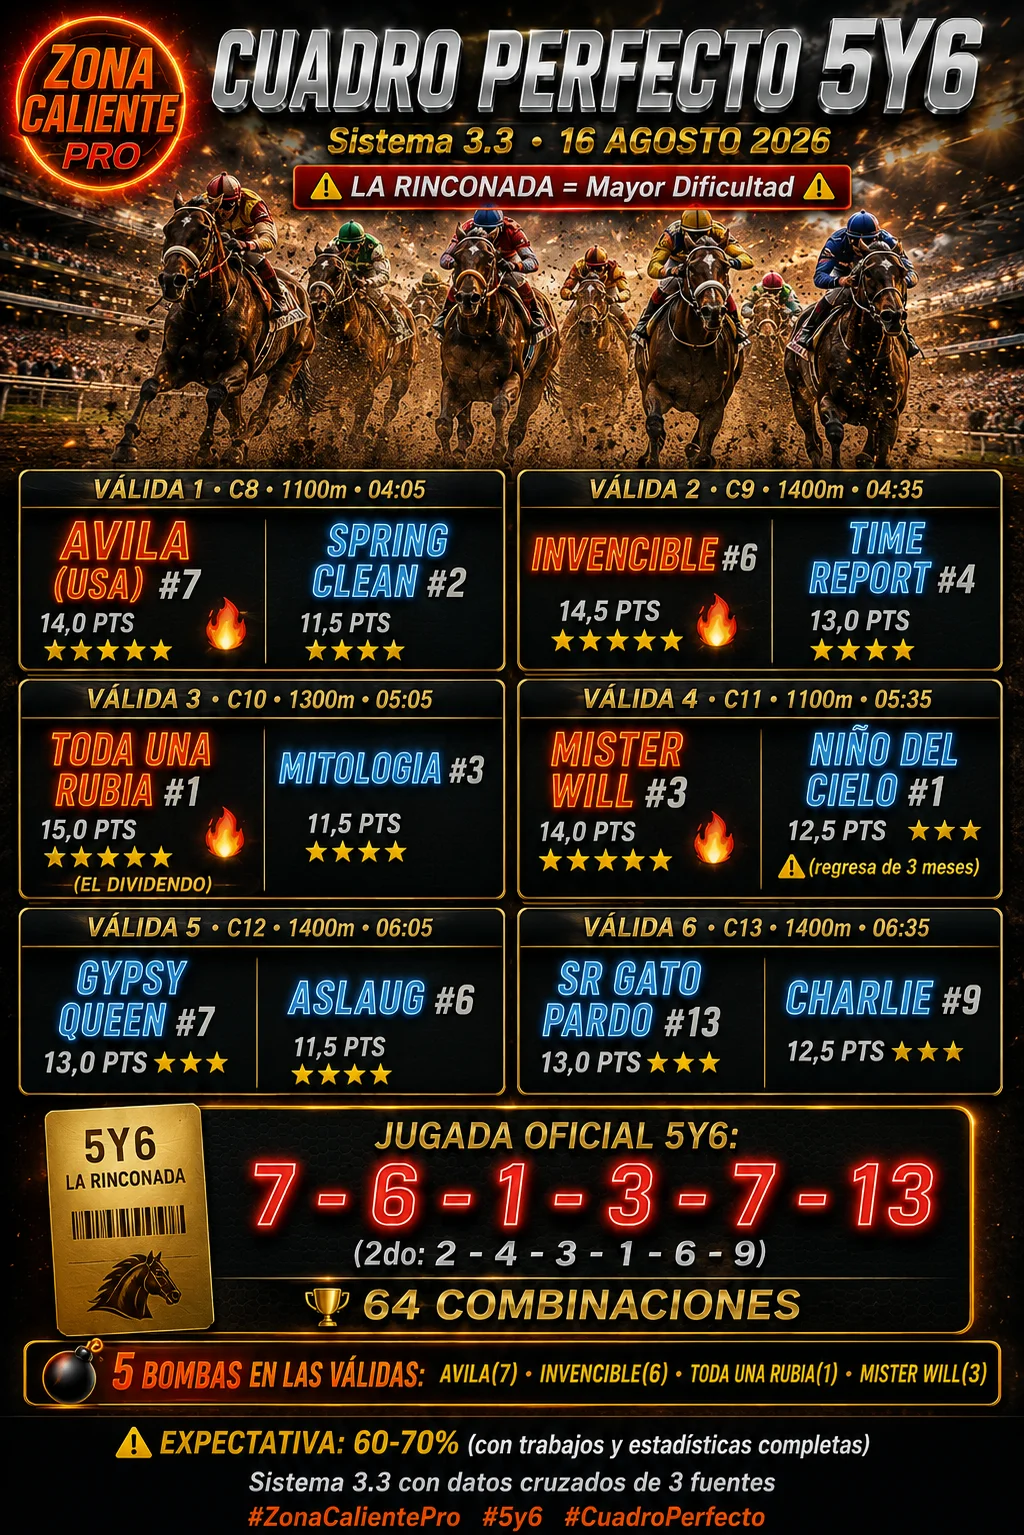
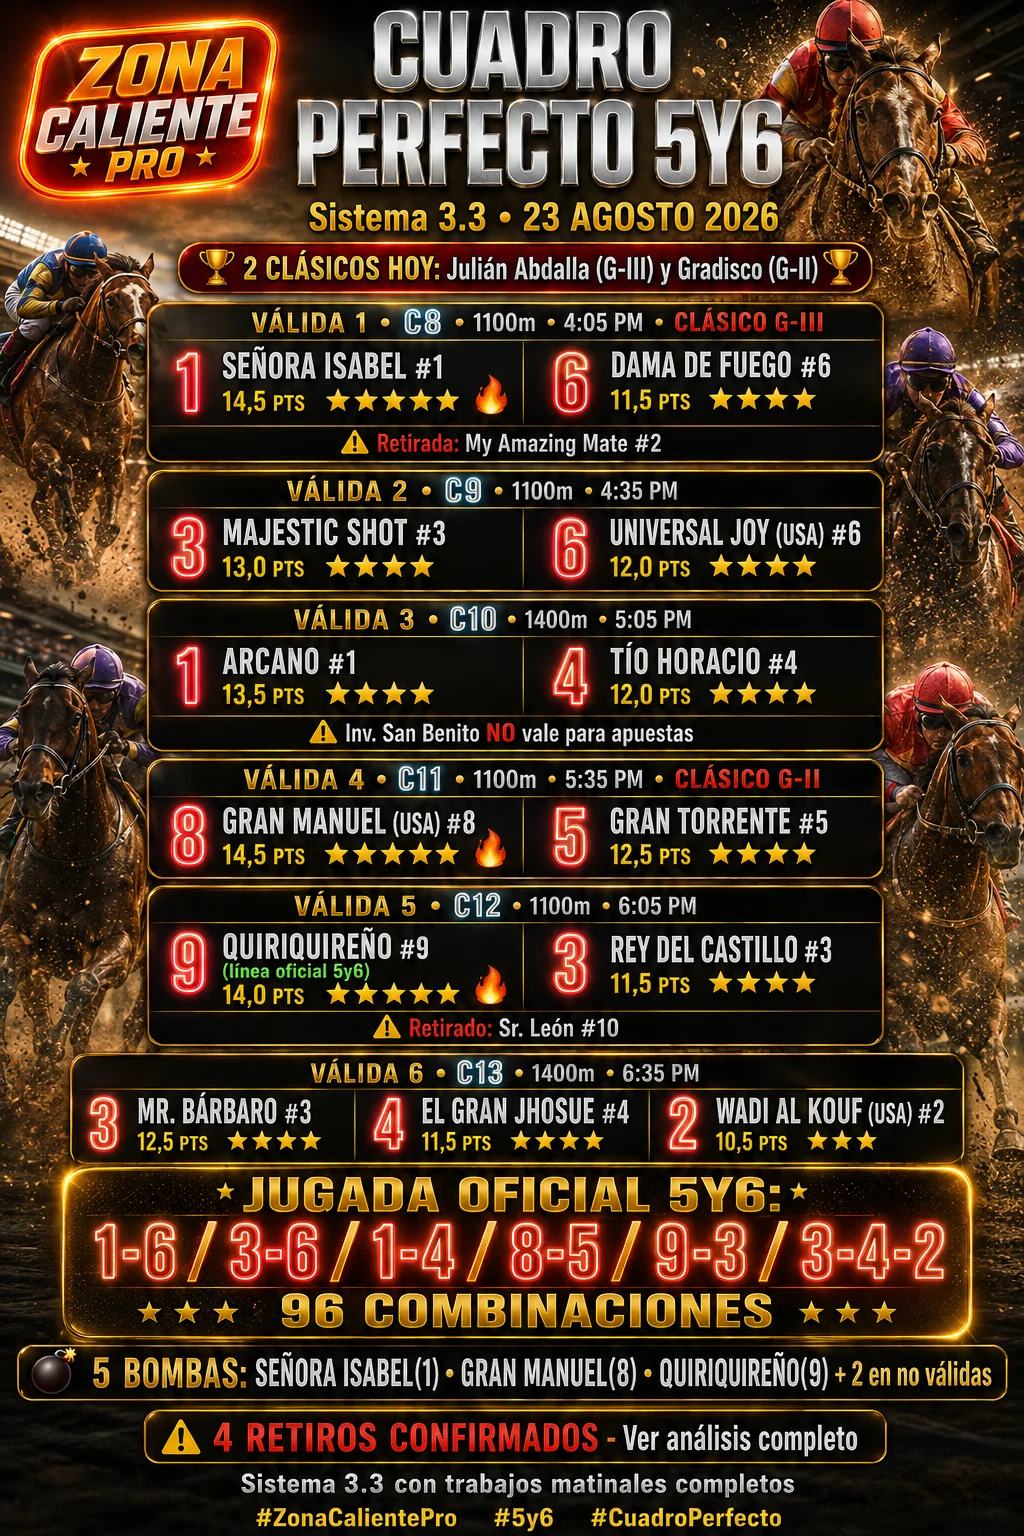
La Rinconada 23/08/2026: análisis Sistema 3.3, Reunión 33 (Julián Abdalla G-III y Gradisco G-II)
Sin carrera en Valencia esta semana -- esa sección queda intacta.
2 fuentes (El Fuetazo + Revista Digital Chicho Báez), trabajos y
estadística completos. 5 bombas identificadas, 4 retiros del INH
excluidos del análisis.

diff --git a/index.html b/index.html
@@ -390,7 +390,7 @@
     </nav>
 
     <div class="emergency-alert-banner" style="background: rgba(34, 158, 217, 0.2); border-color: #229ED9; color: #93c5fd;">
-        🔥 <strong>¡ÚLTIMA HORA!</strong> CARRERAS EN LA RINCONADA LA PRÓXIMA SEMANA. Mantente atento a nuestros pronósticos con el Sistema 3.3.
+        🔥 <strong>¡YA DISPONIBLE!</strong> Análisis completo La Rinconada 23/AGO — Sistema 3.3, Reunión N° 33. No hay carrera en Valencia esta semana.
     </div>
 
     <header class="hero">
@@ -748,7 +748,7 @@
                 </div>
             </div>
             <h2 class="section-title" style="margin-top:40px">🎨 <span class="gold">INFOGRAFÍAS</span> — LA RINCONADA
-                16/AGO</h2>
+                23/AGO</h2>
             <p class="section-sub">Análisis visual generado por IA — La Rinconada</p>
             <div class="infografia-grid">
                 <div class="infografia-card">
